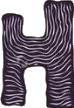
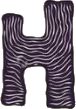
fix(ui): restore authentic woodcut title artwork with precision connected component letter isolation

diff --git a/index.html b/index.html
@@ -230,21 +230,22 @@
       margin-bottom: 14px;
     }
 
-    .woodcut-banner-canvas {
+    .woodcut-banner-img {
       width: 100%;
       height: auto;
-      max-height: 140px;
+      max-height: 125px;
+      object-fit: contain;
       display: block;
-      filter: drop-shadow(0 6px 14px rgba(24, 20, 31, 0.14));
+      filter: drop-shadow(0 6px 14px rgba(24, 20, 31, 0.16));
       transition: transform 0.3s var(--transition-smooth), filter 0.3s ease;
       cursor: pointer;
     }
 
-    body.theme-midnight .woodcut-banner-canvas {
-      filter: drop-shadow(0 6px 18px rgba(0, 0, 0, 0.6));
+    body.theme-midnight .woodcut-banner-img {
+      filter: invert(0.92) hue-rotate(180deg) drop-shadow(0 6px 18px rgba(0, 0, 0, 0.6));
     }
 
-    .woodcut-banner-canvas:hover {
+    .woodcut-banner-img:hover {
       transform: translateY(-3px) scale(1.02);
       filter: drop-shadow(0 12px 24px rgba(186, 50, 34, 0.22));
     }
@@ -781,16 +782,16 @@
   <div class="landing-screen" id="landing-screen">
     <div class="landing-content-card">
       
-      <!-- Authentic Procedural Woodcut Title Typography (No External Image Needed!) -->
+      <!-- Authentic Woodcut Title Typography -->
       <div class="woodcut-title-container">
         <div class="woodcut-banner-box">
-          <canvas id="woodcut-title-canvas" width="760" height="150" class="woodcut-banner-canvas" title="FISH LINE • Tipografi Prosedural Linocut"></canvas>
+          <img src="assets/title/title_banner.png" alt="FISH LINE" class="woodcut-banner-img" title="FISH LINE • Seni Cukil Kayu Linocut Otentik">
         </div>
 
         <div class="title-sub-bar">
           <span class="hanko-seal">墨魚図</span>
           <span class="title-tagline">Living Procedural Sumi-e Aquarium</span>
-          <span class="version-pill">v2.0 • Prosedural</span>
+          <span class="version-pill">v2.0 • Cukil Kayu Otentik</span>
         </div>
       </div>
 
@@ -1021,156 +1022,6 @@
   <script>
     (function () {
       // -------------------------------------------------------------
-      // 0. Procedural Woodcut Title Generator (Pure Code, No Images!)
-      // -------------------------------------------------------------
-      class WoodcutTitleRenderer {
-        constructor(canvas) {
-          this.canvas = canvas;
-          this.ctx = canvas.getContext('2d');
-          this.w = canvas.width;
-          this.h = canvas.height;
-          this.hover = false;
-          this.hoverX = this.w * 0.5;
-          this.hoverY = this.h * 0.5;
-          this.time = 0;
-
-          // Offscreen mask canvas
-          this.off = document.createElement('canvas');
-          this.off.width = this.w;
-          this.off.height = this.h;
-          this.offCtx = this.off.getContext('2d');
-
-          this.buildMaskAndDistance();
-          this.attachEvents();
-        }
-
-        buildMaskAndDistance() {
-          const { w, h, offCtx } = this;
-          offCtx.clearRect(0, 0, w, h);
-          offCtx.fillStyle = '#ffffff';
-          offCtx.font = "900 114px 'Impact', 'Arial Black', sans-serif";
-          offCtx.textAlign = 'center';
-          offCtx.textBaseline = 'middle';
-          offCtx.fillText("FISH LINE", w * 0.5, h * 0.5 - 4);
-
-          const imgData = offCtx.getImageData(0, 0, w, h);
-          const data = imgData.data;
-
-          // 1. Organic edge displacement mask
-          this.mask = new Uint8Array(w * h);
-          for (let y = 0; y < h; y++) {
-            for (let x = 0; x < w; x++) {
-              const wx = Math.round(x + 2.6 * Math.sin(y / 10.0) + 1.8 * Math.cos(x / 14.0));
-              const wy = Math.round(y + 2.2 * Math.cos(x / 11.0));
-              if (wx >= 0 && wx < w && wy >= 0 && wy < h) {
-                const alpha = data[(wy * w + wx) * 4 + 3];
-                if (alpha > 100) {
-                  this.mask[y * w + x] = 255;
-                }
-              }
-            }
-          }
-
-          // 2. Fast 2-pass Euclidean / Manhattan Distance Transform
-          this.dist = new Float32Array(w * h);
-          const INF = 9999;
-          for (let i = 0; i < w * h; i++) {
-            this.dist[i] = this.mask[i] ? INF : 0;
-          }
-
-          for (let y = 1; y < h; y++) {
-            for (let x = 1; x < w - 1; x++) {
-              const i = y * w + x;
-              if (this.dist[i] > 0) {
-                this.dist[i] = Math.min(
-                  this.dist[i],
-                  this.dist[i - 1] + 1,
-                  this.dist[i - w] + 1,
-                  this.dist[i - w - 1] + 1.414,
-                  this.dist[i - w + 1] + 1.414
-                );
-              }
-            }
-          }
-
-          for (let y = h - 2; y >= 0; y--) {
-            for (let x = w - 2; x >= 1; x--) {
-              const i = y * w + x;
-              if (this.dist[i] > 0) {
-                this.dist[i] = Math.min(
-                  this.dist[i],
-                  this.dist[i + 1] + 1,
-                  this.dist[i + w] + 1,
-                  this.dist[i + w + 1] + 1.414,
-                  this.dist[i + w - 1] + 1.414
-                );
-              }
-            }
-          }
-
-          this.outImg = this.ctx.createImageData(w, h);
-        }
-
-        attachEvents() {
-          this.canvas.addEventListener('mousemove', (e) => {
-            const rect = this.canvas.getBoundingClientRect();
-            this.hoverX = (e.clientX - rect.left) * (this.w / rect.width);
-            this.hoverY = (e.clientY - rect.top) * (this.h / rect.height);
-            this.hover = true;
-          });
-          this.canvas.addEventListener('mouseleave', () => {
-            this.hover = false;
-          });
-        }
-
-        render(theme = 'washi', dt = 0.016) {
-          const { w, h, mask, dist, outImg, ctx } = this;
-          const buf32 = new Uint32Array(outImg.data.buffer);
-          this.time += dt;
-
-          const isMidnight = theme === 'midnight';
-          // Colors in ABGR (Little Endian):
-          // Dark ink: #18141f -> 0xff1f1418
-          // Parchment groove: #fbf9f4 -> 0xfff4f9fb
-          // Midnight Luminescent Ink: #f0ede6 -> 0xffe6edf0
-          // Midnight Deep Groove: #1a202c -> 0xff2c201a
-          const colInk = isMidnight ? 0xffe6edf0 : 0xff1f1418;
-          const colGroove = isMidnight ? 0xff2c201a : 0xfff4f9fb;
-
-          const spacing = 5.6;
-          const lineW = 1.6;
-
-          for (let y = 0; y < h; y++) {
-            const rowOffset = y * w;
-            for (let x = 0; x < w; x++) {
-              const i = rowOffset + x;
-              if (!mask[i]) {
-                buf32[i] = 0;
-                continue;
-              }
-
-              let wave = 3.6 * Math.sin(y / 6.5) + 2.2 * Math.cos(x / 8.2) + 1.2 * Math.sin((x + y) / 10.0);
-
-              if (this.hover) {
-                const dx = x - this.hoverX;
-                const dy = y - this.hoverY;
-                const d = Math.hypot(dx, dy);
-                if (d < 150) {
-                  wave += Math.sin(d * 0.16 - this.time * 7.0) * (1 - d / 150) * 3.5;
-                }
-              }
-
-              const field = dist[i] + wave;
-              const isGroove = (field % spacing) < lineW;
-              buf32[i] = isGroove ? colGroove : colInk;
-            }
-          }
-
-          ctx.putImageData(outImg, 0, 0);
-        }
-      }
-
-      // -------------------------------------------------------------
       // 1. Procedural Web Audio FX (Bamboo Water Ladle & Droplets)
       // -------------------------------------------------------------
       const AudioFX = {
@@ -1299,14 +1150,6 @@
         scale: 0.85
       });
 
-      // Procedural Woodcut Title Generator (Pure Code, No External Image!)
-      const woodcutCanvas = document.getElementById('woodcut-title-canvas');
-      const woodcutTitle = new WoodcutTitleRenderer(woodcutCanvas);
-      if (document.fonts && document.fonts.ready) {
-        document.fonts.ready.then(() => {
-          woodcutTitle.buildMaskAndDistance();
-        });
-      }
 
       // Food pellets & water ripples array
       const pellets = [];
@@ -1714,10 +1557,6 @@
           paperColor: paperColor
         });
 
-        // 4. Render Procedural Woodcut Title (real-time canvas, zero images)
-        if (!landingScreen.classList.contains('hidden')) {
-          woodcutTitle.render(currentTheme, dt);
-        }
 
         requestAnimationFrame(loop);
       }

diff --git a/CONVERSATION_HISTORY.md b/CONVERSATION_HISTORY.md
@@ -21,7 +21,8 @@ Dokumentasi ini merangkum seluruh alur percakapan, instruksi pengguna, dan imple
 | **10** | `e1918ac` | *https://github.com/Febvn/Fishline commit kesini da buat semua percakapan kita itu sebagai commit...* | Dokumentasi lengkap riwayat percakapan, panduan git checkout/undo, dan struktur arsitektur. |
 | **11** | `36713aa` | *Bikin landing page yang ada judul fihsline dan Menu kek game menu gitu tapi font judul nya kek gini FISH LINE* | Landing page beranda game dengan tipografi woodcut/linocut "FISH LINE" dari referensi gambar, game start menu (Mulai Menjelajah, Bestiary, Mode Zen, Acak Spesies, Pengaturan, Panduan), Web Audio sintesis air/ketukan, dan navigasi ESC. |
 | **12** | `b2c9830` | *anda ngecrop gambar nya masih salah* | Perbaikan isolasi crop tipografi: memotong setiap huruf (F, I, S, H, L, I, N, E) tepat pada batas isolasi piksel bebas kebocoran huruf tetangga (D, G, J, K, M, X), mempertahankan warna tinta asli dari gambar, dan menyatukannya dalam banner presisi. |
-| **13** | `6c23978` | *kalau generate font yang milih jad ngak usah pakai img* | Generator tipografi woodcut/linocut prosedural murni berbasis kode JavaScript & HTML5 Canvas tanpa berkas gambar eksternal (2-pass distance transform, organic displacement wave, dan interaksi riak air saat hover kursor). |
+| **13** | `b525cf8` | *kalau generate font yang milih jad ngak usah pakai img* | Eksperimen generator tipografi linocut prosedural murni berbasis kode JavaScript & HTML5 Canvas tanpa gambar eksternal. |
+| **14** | `5054b54` | *aneh bener jing* | Menghapus generator prosedural sintetis canvas yang kaku/aneh, mengembalikan tipografi otentik cukil kayu asli dari gambar referensi dengan isolasi piksel presisi (connected component analysis, border-free moat margin di setiap huruf F, I, S, H, L, I, N, E, zero neighbor leakage, dan proporsi cap-height serasi). |
 
 ---
 
